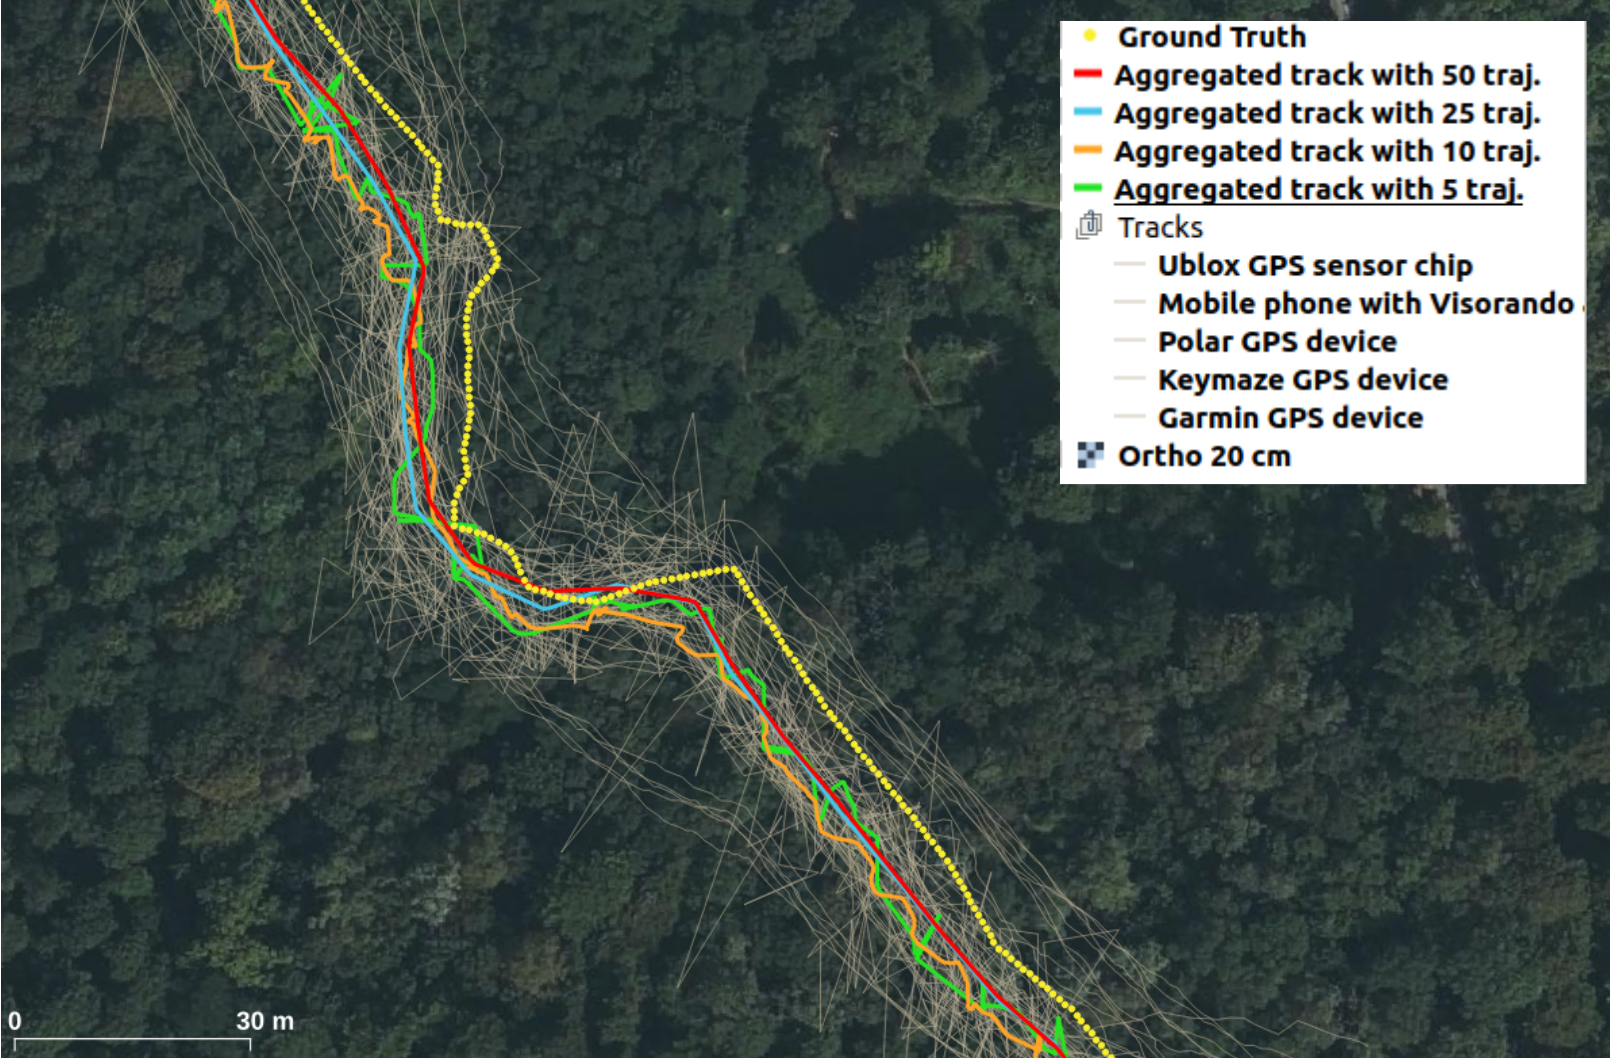
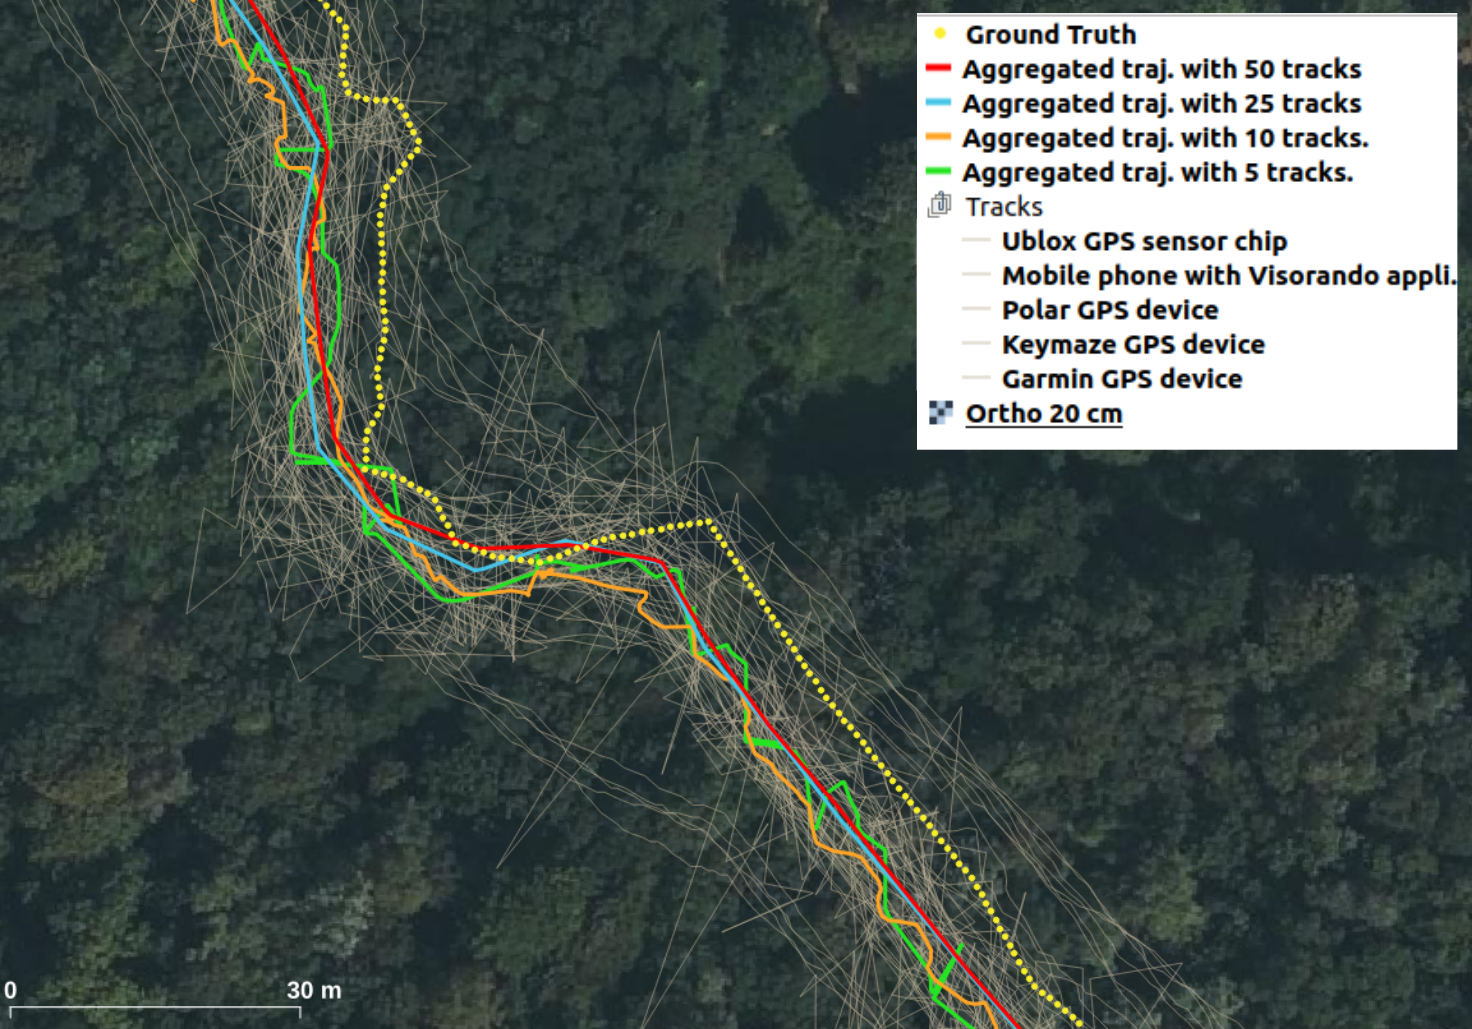
ajout publi sigspatial

diff --git a/index.htm b/index.htm
@@ -352,7 +352,7 @@
                             <article class="col-md-4 isotopeItem images">
 															<div class="portfolio-item">
 																	<img src='img/MIAAMultiSensorsTrajectory.png' />
-																	<span style='display:block;padding-left:2px;padding-right:2px;border:none;'>Aggregated trajectory for varying multi-sensors trajectory samples computed by the MIAA algorithm</span>
+																	<span style='display:block;padding-left:2px;padding-right:2px;border:none;'>Aggregated trajectories computed using the MIAA algorithm with DTW for distance comparison, from various multi-sensors trajectory samples.</span>
 															</div>
 															
 														</article>
